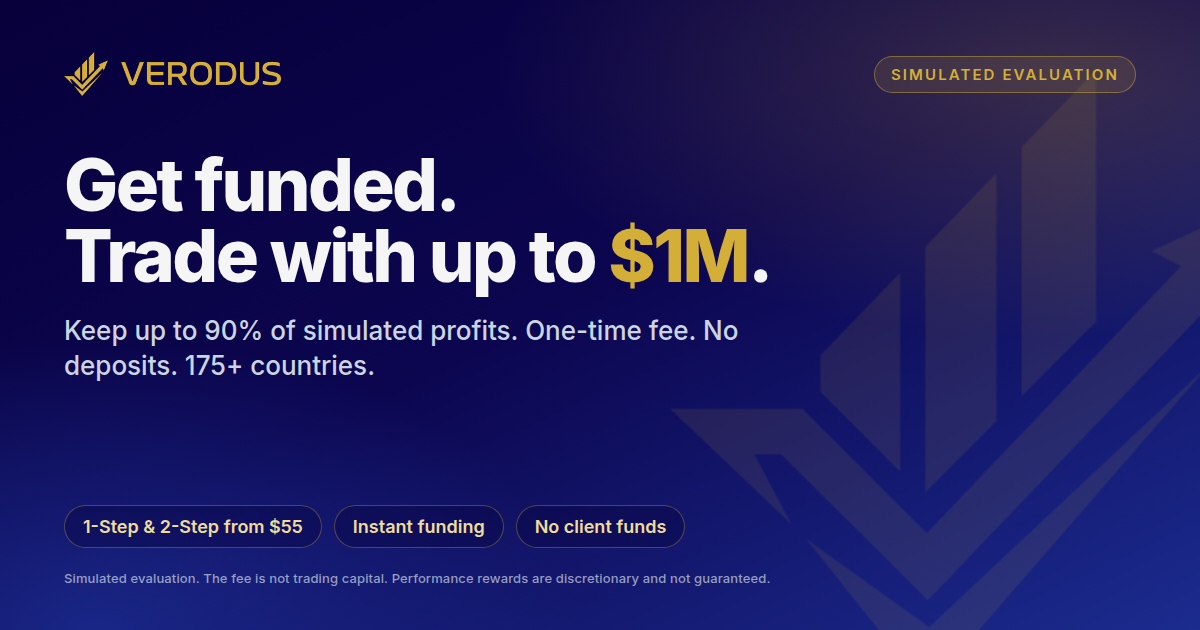
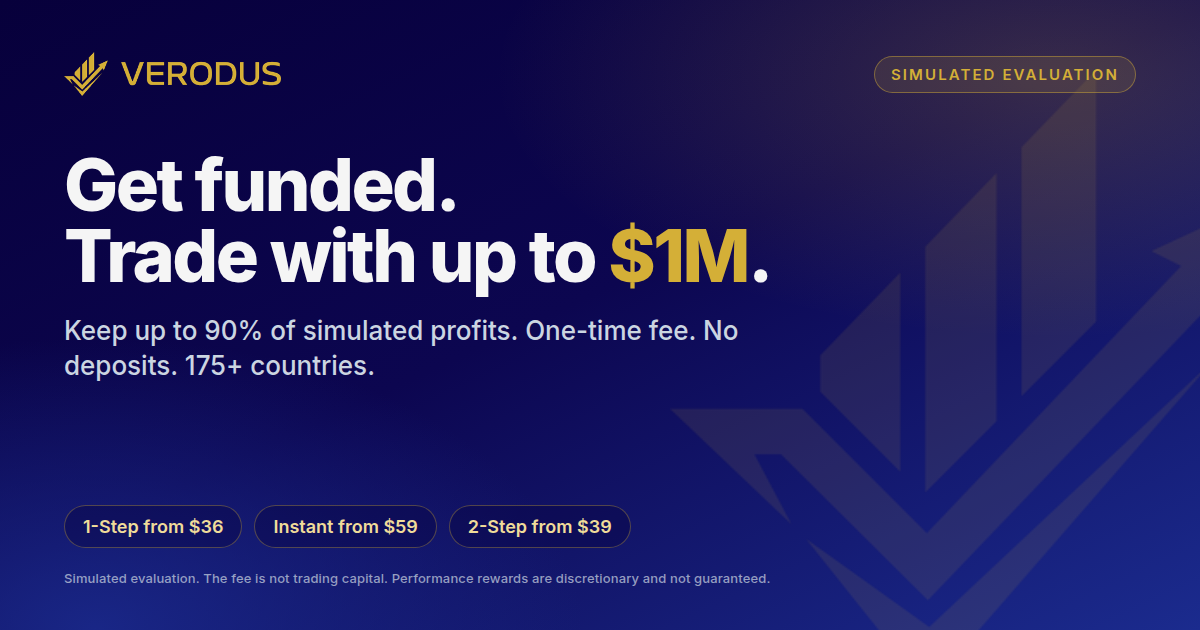
Align Verodus meta copy with 16 Aug VERO35 shopper prices
Replace the live “from $55” line (1-Step list) with the rec $5k floors:
1-Step $36, 2-Step $39, Instant $59. Keep the live title and 90% split.
Rebuild the 1200x630 card and match Organization JSON-LD from the site.

Changed region(s): [[0.1233, 0.8143, 0.555, 0.8746]]

diff --git a/ads/meta/tags/index.html b/ads/meta/tags/index.html
@@ -8,7 +8,8 @@
     <meta name="facebook-domain-verification" content="FACEBOOK_DOMAIN_VERIFICATION_CODE">
 
     <title>Verodus | Get Funded & Trade — Up to $1M Capital, 90% Profit Split</title>
-    <meta name="description" content="Pass a 1-Step or 2-Step evaluation from $55. Trade Forex, equities & crypto with up to $1M capital, keep up to 90% profit split. No deposits. 175+ countries.">
+    <!-- VERO35 shopper floors, 16 Aug 2026 rec card: 1-Step $36 · 2-Step $39 · Instant $59 ($5k). -->
+    <meta name="description" content="1-Step from $36 · 2-Step from $39 · Instant from $59. Simulated evaluation with up to $1M capital, keep up to 90%. No deposits. 175+ countries.">
     <meta name="robots" content="index, follow, max-image-preview:large, max-snippet:-1, max-video-preview:-1">
     <link rel="canonical" href="https://www.verodus.com/">
 
@@ -22,22 +23,50 @@
     <meta property="og:locale:alternate" content="pt_BR">
     <meta property="og:url" content="https://www.verodus.com/">
     <meta property="og:title" content="Verodus | Get Funded & Trade — Up to $1M Capital, 90% Profit Split">
-    <meta property="og:description" content="Pass a 1-Step or 2-Step evaluation from $55. Trade Forex, equities & crypto with up to $1M capital, keep up to 90% profit split. No deposits. 175+ countries.">
+    <meta property="og:description" content="1-Step from $36 · 2-Step from $39 · Instant from $59. Simulated evaluation with up to $1M capital, keep up to 90%. No deposits. 175+ countries.">
     <meta property="og:image" content="https://www.verodus.com/images/og-default.webp">
     <meta property="og:image:secure_url" content="https://www.verodus.com/images/og-default.webp">
     <meta property="og:image:type" content="image/webp">
     <meta property="og:image:width" content="1200">
     <meta property="og:image:height" content="630">
-    <meta property="og:image:alt" content="Verodus — get funded and trade with up to $1M simulated capital. Keep up to 90% of simulated profits.">
+    <meta property="og:image:alt" content="Verodus — simulated evaluation. 1-Step from $36, Instant from $59. Up to $1M capital, keep up to 90%.">
 
     <meta name="twitter:card" content="summary_large_image">
     <meta name="twitter:site" content="@VerodusOfficial">
     <meta name="twitter:title" content="Verodus | Get Funded & Trade — Up to $1M Capital, 90% Profit Split">
-    <meta name="twitter:description" content="Pass a 1-Step or 2-Step evaluation from $55. Trade Forex, equities & crypto with up to $1M capital, keep up to 90% profit split. No deposits. 175+ countries.">
+    <meta name="twitter:description" content="1-Step from $36 · 2-Step from $39 · Instant from $59. Simulated evaluation with up to $1M capital, keep up to 90%. No deposits. 175+ countries.">
     <meta name="twitter:image" content="https://www.verodus.com/images/og-default.webp">
-    <meta name="twitter:image:alt" content="Verodus — get funded and trade with up to $1M simulated capital. Keep up to 90% of simulated profits.">
+    <meta name="twitter:image:alt" content="Verodus — simulated evaluation. 1-Step from $36, Instant from $59. Up to $1M capital, keep up to 90%.">
 
     <meta name="theme-color" content="#1b2b8e">
+    <script type="application/ld+json">
+    {
+      "@context": "https://schema.org",
+      "@graph": [
+        {
+          "@type": "Organization",
+          "@id": "https://www.verodus.com/#organization",
+          "name": "Verodus",
+          "url": "https://www.verodus.com",
+          "logo": "https://www.verodus.com/images/logo.webp",
+          "sameAs": [
+            "https://x.com/VerodusOfficial",
+            "https://www.instagram.com/verodus_official",
+            "https://www.youtube.com/@VerodusOfficial",
+            "https://discord.gg/CyVknEh2SA",
+            "https://www.facebook.com/VerodusOfficial"
+          ]
+        },
+        {
+          "@type": "WebSite",
+          "@id": "https://www.verodus.com/#website",
+          "url": "https://www.verodus.com",
+          "name": "Verodus",
+          "publisher": { "@id": "https://www.verodus.com/#organization" }
+        }
+      ]
+    }
+    </script>
 
     <!-- Meta Pixel — replace PIXEL_ID -->
     <script>
@@ -159,10 +188,10 @@
     <main>
         <span class="eyebrow">Simulated evaluation</span>
         <h1>Verodus <em>meta tags</em></h1>
-        <p class="lead">Complete HTML for verodus.com. Copy the <code>&lt;head&gt;</code> from this file into the live site header. Replace the two placeholders, then upload the 1200×630 share image.</p>
+        <p class="lead">Complete HTML for verodus.com. Copy the <code>&lt;head&gt;</code> into the live header. Prices are the 16 Aug VERO35 shopper floors: 1-Step <strong>$36</strong>, 2-Step <strong>$39</strong>, Instant <strong>$59</strong>. Replace the two placeholders, then upload the 1200×630 share image.</p>
 
         <div class="card">
-            <img src="og-default.png" width="1200" height="630" alt="Verodus — get funded and trade with up to $1M simulated capital. Keep up to 90% of simulated profits.">
+            <img src="og-default.png" width="1200" height="630" alt="Verodus — simulated evaluation. 1-Step from $36, Instant from $59. Up to $1M capital, keep up to 90%.">
         </div>
 
         <h2>Replace before publish</h2>

diff --git a/ads/meta/tags/build_og.py b/ads/meta/tags/build_og.py
@@ -124,9 +124,9 @@ def html() -> str:
     <h1>Get funded.<br>Trade with up to <em>$1M</em>.</h1>
     <p class="sub">Keep up to 90% of simulated profits. One-time fee. No deposits. 175+ countries.</p>
     <div class="chips">
-      <span class="chip">1-Step &amp; 2-Step from $55</span>
-      <span class="chip">Instant funding</span>
-      <span class="chip">No client funds</span>
+      <span class="chip">1-Step from $36</span>
+      <span class="chip">Instant from $59</span>
+      <span class="chip">2-Step from $39</span>
     </div>
     <p class="disclaimer">Simulated evaluation. The fee is not trading capital. Performance rewards are discretionary and not guaranteed.</p>
   </div>

diff --git a/ads/meta/tags/README.md b/ads/meta/tags/README.md
@@ -1,7 +1,5 @@
 # Meta tags for verodus.com
 
-**Use this file:** [`index.html`](index.html) — a complete HTML document with the domain-verification tag, Open Graph / Twitter tags, Pixel, and the 1200×630 share card.
+**Use this file:** [`index.html`](index.html)
 
-Open it in a browser, or copy its `<head>` into the live verodus.com header.
-
-Replace `FACEBOOK_DOMAIN_VERIFICATION_CODE` and `PIXEL_ID` before publish. Upload `og-default.webp` to `https://www.verodus.com/images/og-default.webp`.
+Prices in the `<head>` and on the 1200×630 card are the 16 Aug 2026 VERO35 shopper floors ($5k): **1-Step $36 · 2-Step $39 · Instant $59**. Title and 90% split match the live site. Replace `FACEBOOK_DOMAIN_VERIFICATION_CODE` and `PIXEL_ID` before publish. Upload `og-default.webp` to `https://www.verodus.com/images/og-default.webp`.
